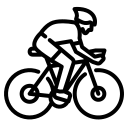
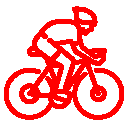
Amélioration de l'interactivité avec l'api

diff --git a/js/script.js b/js/script.js
@@ -1,3 +1,8 @@
+infos = document.querySelector(".infos_api");
+infos.innerHTML = '<p>Passez la souris sur le marqueur</p><br><p>Double-cliquez pour zoomer</p>';
+infos.style.fontStyle = "italic";
+
+
 async function fetchContract(city) {
     const r = await fetch('https://api.jcdecaux.com/vls/v1/stations?contract=' + city + '&apiKey=5e9c3981d2ee8d12af4b168731fe489035682eaf', {
         //formaliser une requete http
@@ -15,20 +20,42 @@ async function fetchContract(city) {
 
 function displayStations(city) {
 
-    var velo_icon = L.icon({
-        iconUrl: './images/velo-png-2.png',
+    let velo_icon1 = L.icon({
+        iconUrl: './images/velo-png-1.png',
         iconSize: [32, 32], // size of the icon
         iconAnchor: [16, 16], // point of the icon which will correspond to marker's location
         popupAnchor: [16, -50] // point from which the popup should open relative to the iconAnchor
     });
 
-    var map = L.map('map');
-    fetchContract(city).then(function (datas) {
-        map.setView([datas[0].position.lat, datas[0].position.lng], 13);
-        for (var i = 0; i < datas.length; i++) {
-            var marker = L.marker([datas[i].position.lat, datas[i].position.lng], { icon: velo_icon }).addTo(map);
-        }
+    let velo_icon2 = L.icon({
+        iconUrl: './images/velo-png-2.png',
+        iconSize: [32, 32],
+        iconAnchor: [16, 16],
+        popupAnchor: [16, -50]
+    });
 
+    let map = L.map('map');
+    fetchContract(city).then(function (datas) {
+
+        console.log(datas);
+        map.setView([datas[0].position.lat, datas[0].position.lng], 13);
+        for (let i = 0; i < datas.length; i++) {
+
+            let marker = L.marker([datas[i].position.lat, datas[i].position.lng], { icon: datas[i].available_bike_stands > 0 ? velo_icon1 : velo_icon2 }).on('mouseover', () => {
+                infos.innerHTML =
+                    `<p style='font-weight:bold; color:#FFE013'>${datas[i].name}</p>` +
+                    `<p><span>Addresse</span> :${datas[i].address}</p>` +
+                    `<p><span>Statut</span> : ${datas[i].status}</p>` +
+                    `<p><span>Vélo disponibles au stand</span> : ${datas[i].available_bike_stands}</p>` +
+                    `<p><span>Capacité du stand</span> :${datas[i].bike_stands}</p>`
+                infos.style.fontStyle = "normal";
+            })
+            marker.on('mouseout', () => {
+                infos.innerHTML = '<p>Passez la souris sur le marqueur</p><br><p>Double-cliquez pour zoomer</p>';
+                infos.style.fontStyle = "italic";
+            })
+            marker.addTo(map);
+        }
     })
     L.tileLayer('https://tile.openstreetmap.org/{z}/{x}/{y}.png', {
         maxZoom: 18,

diff --git a/css/carte.css b/css/carte.css
@@ -1,8 +1,7 @@
-
 .parent_carte {
     display: flex;
     flex-direction: row;
-    flex-wrap: wrap;    
+    flex-wrap: wrap;
 }
 
 .parent_carte .carte {
@@ -12,7 +11,7 @@
     margin: 20px;
     padding: 15px;
     border-right: 1px solid #2B4162;
-    font-family: elegance;        
+    font-family: elegance;
 }
 
 .parent_carte .carte #map {
@@ -25,13 +24,13 @@
 }
 
 .parent_carte .infos_station {
-    margin:0 auto;
+    margin: 0 auto;
     text-align: center;
     font-family: elegance, Verdana, Geneva, Tahoma, sans-serif;
     color: #F5F0F6;
     width: 45%;
     margin: 20px;
-	border-radius: 10px;
+    border-radius: 10px;
     background-color: #385f71;
 }
 
@@ -39,11 +38,23 @@
     margin: 10px;
 }
 
-.infos_station:before, .infos_station:after {
-  content: "";
-  display: table
+.infos_station:before,
+.infos_station:after {
+    content: "";
+    display: table
 }
 
 .infos_station:after {
-  clear: both
+    clear: both
+}
+
+.infos_api {
+    padding: 15px 10px;
+}
+
+.infos_api p span {
+    color: #FFE013;
+    font-weight: 500;
+    letter-spacing: 1px;
+    text-decoration: underline;
 }

diff --git a/index.php b/index.php
@@ -1,10 +1,6 @@
-<?php
-    require('class/MyPdoLocal.php');
-    $pdo = new MyPDO();
-    $data_avis = $pdo -> reqFetchAll("SELECT * FROM avis");    
-?>
 <!DOCTYPE html>
 <html lang="fr">
+
 <head>
     <meta charset="UTF-8">
     <meta http-equiv="X-UA-Compatible" content="IE=edge">
@@ -15,17 +11,22 @@
     <link rel="stylesheet" href="css/contact.css">
     <link rel="stylesheet" href="css/footer.css">
     <link rel="stylesheet" href="css/button.css">
-    <link rel="stylesheet" href="https://cdn.jsdelivr.net/npm/bootstrap@5.2.3/dist/css/bootstrap.min.css" integrity="sha384-rbsA2VBKQhggwzxH7pPCaAqO46MgnOM80zW1RWuH61DGLwZJEdK2Kadq2F9CUG65" crossorigin="anonymous">
+    <link rel="stylesheet" href="https://cdn.jsdelivr.net/npm/bootstrap@5.2.3/dist/css/bootstrap.min.css"
+        integrity="sha384-rbsA2VBKQhggwzxH7pPCaAqO46MgnOM80zW1RWuH61DGLwZJEdK2Kadq2F9CUG65" crossorigin="anonymous">
     <link rel="stylesheet" href="https://maxcdn.bootstrapcdn.com/font-awesome/4.6.3/css/font-awesome.min.css">
-    <link rel="stylesheet" href="https://cdnjs.cloudflare.com/ajax/libs/font-awesome/6.2.1/css/all.min.css" integrity="sha512-MV7K8+y+gLIBoVD59lQIYicR65iaqukzvf/nwasF0nqhPay5w/9lJmVM2hMDcnK1OnMGCdVK+iQrJ7lzPJQd1w==" crossorigin="anonymous" referrerpolicy="no-referrer" />
-    <link rel="stylesheet" href="https://unpkg.com/leaflet@1.9.3/dist/leaflet.css" integrity="sha256-kLaT2GOSpHechhsozzB+flnD+zUyjE2LlfWPgU04xyI=" crossorigin="" />
+    <link rel="stylesheet" href="https://cdnjs.cloudflare.com/ajax/libs/font-awesome/6.2.1/css/all.min.css"
+        integrity="sha512-MV7K8+y+gLIBoVD59lQIYicR65iaqukzvf/nwasF0nqhPay5w/9lJmVM2hMDcnK1OnMGCdVK+iQrJ7lzPJQd1w=="
+        crossorigin="anonymous" referrerpolicy="no-referrer" />
+    <link rel="stylesheet" href="https://unpkg.com/leaflet@1.9.3/dist/leaflet.css"
+        integrity="sha256-kLaT2GOSpHechhsozzB+flnD+zUyjE2LlfWPgU04xyI=" crossorigin="" />
     <title>BS - Vélo</title>
 </head>
+
 <body>
     <!-- Back to top button -->
-<button type="button" class="btn btn-danger btn-floating btn-lg" id="btn-back-to-top" >
-<i class="fas fa-arrow-up"></i>
-</button>
+    <button type="button" class="btn btn-danger btn-floating btn-lg" id="btn-back-to-top">
+        <i class="fas fa-arrow-up"></i>
+    </button>
     <header>
         <nav class="navbar">
             <div class="parent">
@@ -41,7 +42,7 @@
             </div>
         </nav>
     </header>
-    <section class="section_carte" id="section_carte">        
+    <section class="section_carte" id="section_carte">
         <div class="parent_carte">
             <div class="carte">
                 <h1>Carte de Lyon</h1>
@@ -49,14 +50,12 @@
             </div>
             <div class="infos_station">
                 <h1>Info Station</h1>
-                <p>
-
-                </p>
+                <div class="infos_api"></div>
             </div>
         </div>
     </section>
-    <section class="section_form" id="section_form">        
-        <div class="parent_carte">            
+    <section class="section_form" id="section_form">
+        <div class="parent_carte">
             <div class="formulaire">
                 <h1>Titre formulaire</h1>
                 <hr>
@@ -73,18 +72,6 @@
                 <h1>Avis</h1>
                 <hr>
                 <p>&nbsp</p>
-                <?php 
-                    foreach($data_avis as $data) {
-                        echo "<p>Pseudo : " .$data->pseudo. "</p>";
-                        echo "<p>Avis : " .$data->avis. "</p>";
-                        echo "<p>Date: " .$data->date. "</p>";
-                        echo "<p><form action='del.php' method='post'>
-                        <input type='hidden' name='num_id' value='" .$data->id. "'>
-                        <input type='submit' value='Supprimer'></p>
-                        </form>";
-                        echo "<hr>";
-                    }
-                ?>                
             </div>
         </div>
     </section>
@@ -95,19 +82,19 @@
 
                 <label for="fname">Nom</label>
                 <input type="text" id="fname" name="firstname" placeholder="Votre Nom.." required>
-            
+
                 <label for="lname">Prénom</label>
                 <input type="text" id="lname" name="lastname" placeholder="Votre prénom.." required>
-            
+
                 <label for="email">E-Mail</label>
                 <input type="email" id="email" name="email" placeholder="Votre mail.." required>
-            
+
                 <label for="subject">Commentaire</label>
                 <textarea id="subject" name="subject" placeholder="Votre commentaire.." required></textarea>
-            
+
                 <br><br>
                 <input type="submit" value="Submit">
-            
+
             </form>
         </div>
     </section>
@@ -129,9 +116,12 @@
         </div>
     </footer>
 </body>
-<script src="https://unpkg.com/leaflet@1.9.3/dist/leaflet.js" integrity="sha256-WBkoXOwTeyKclOHuWtc+i2uENFpDZ9YPdf5Hf+D7ewM=" crossorigin=""></script>
+<script src="https://unpkg.com/leaflet@1.9.3/dist/leaflet.js"
+    integrity="sha256-WBkoXOwTeyKclOHuWtc+i2uENFpDZ9YPdf5Hf+D7ewM=" crossorigin=""></script>
 <script src="js/script.js"></script>
 <script src="js/button.js"></script>
-<script src="https://cdn.jsdelivr.net/npm/bootstrap@5.2.3/dist/js/bootstrap.min.js" integrity="sha384-cuYeSxntonz0PPNlHhBs68uyIAVpIIOZZ5JqeqvYYIcEL727kskC66kF92t6Xl2V" crossorigin="anonymous"></script>
+<script src="https://cdn.jsdelivr.net/npm/bootstrap@5.2.3/dist/js/bootstrap.min.js"
+    integrity="sha384-cuYeSxntonz0PPNlHhBs68uyIAVpIIOZZ5JqeqvYYIcEL727kskC66kF92t6Xl2V"
+    crossorigin="anonymous"></script>
 
 </html>
